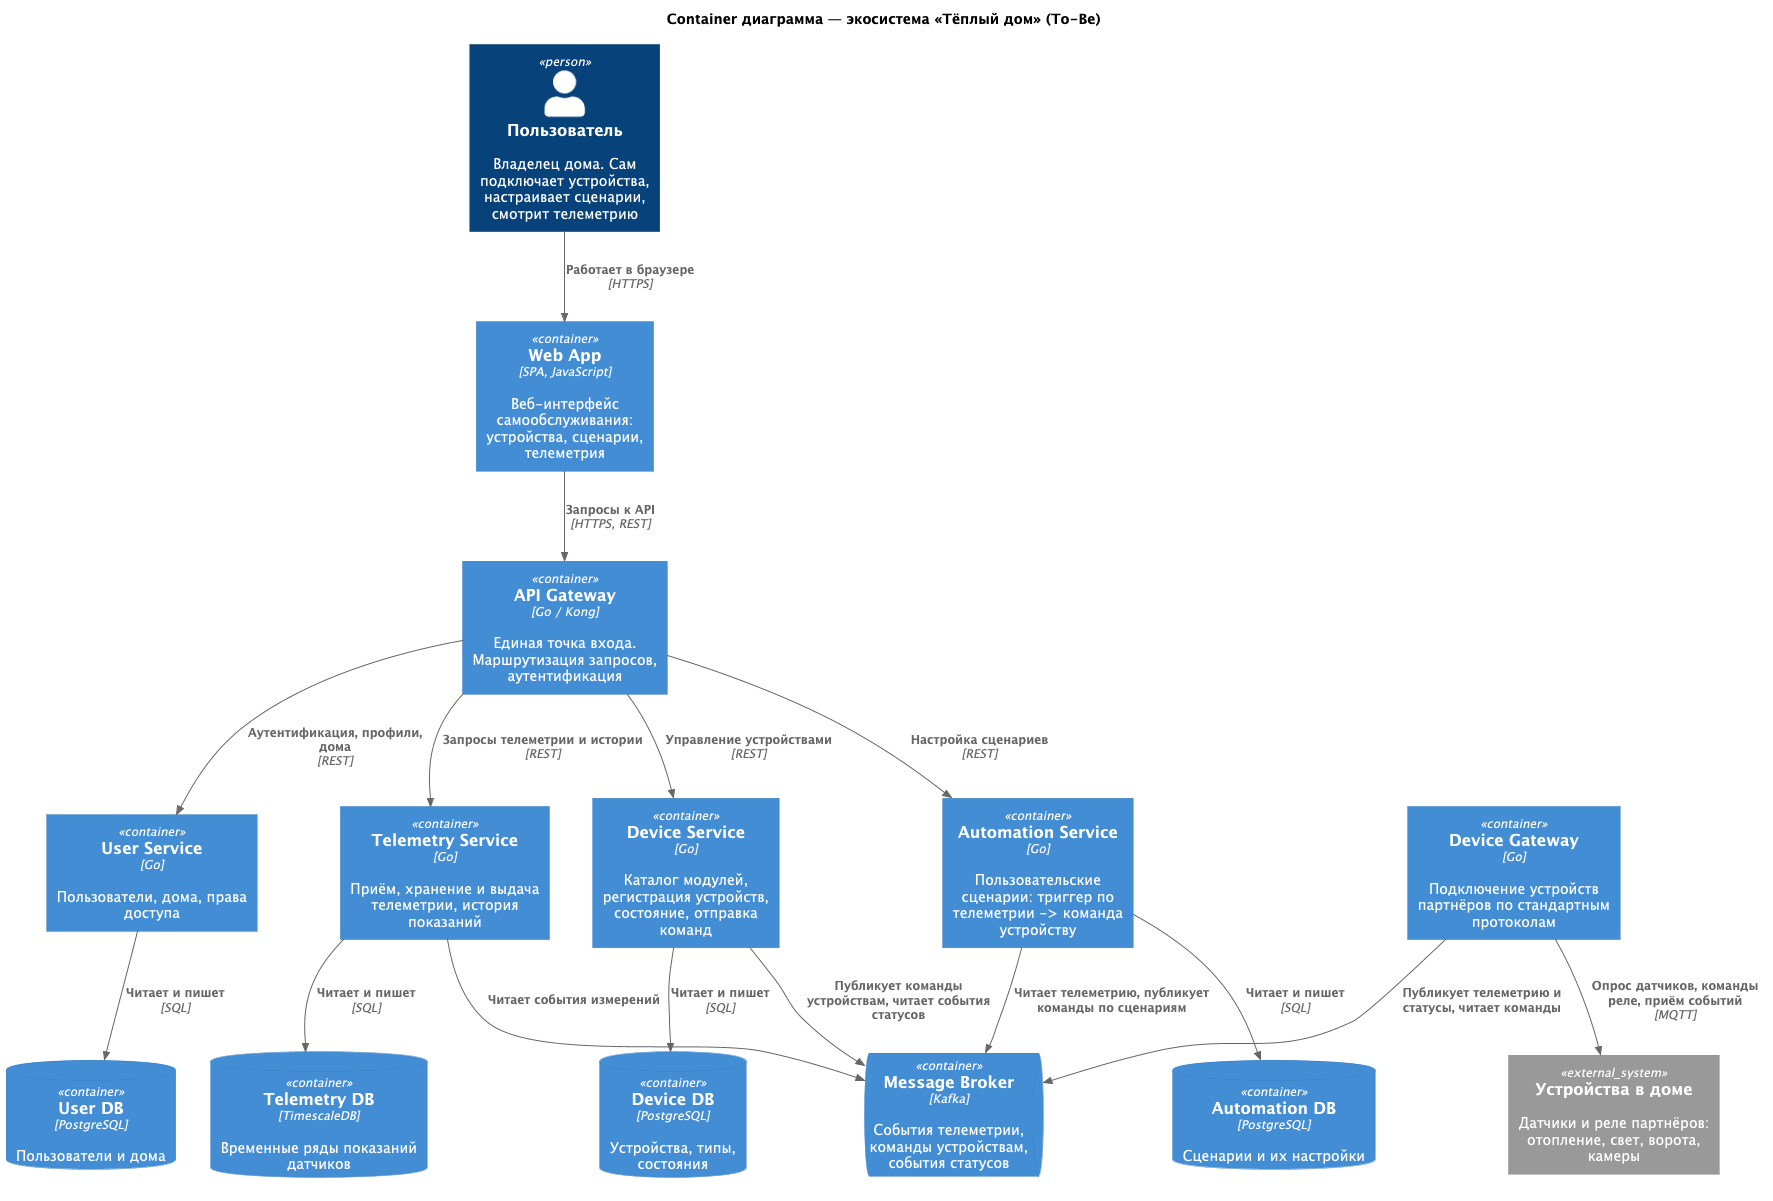
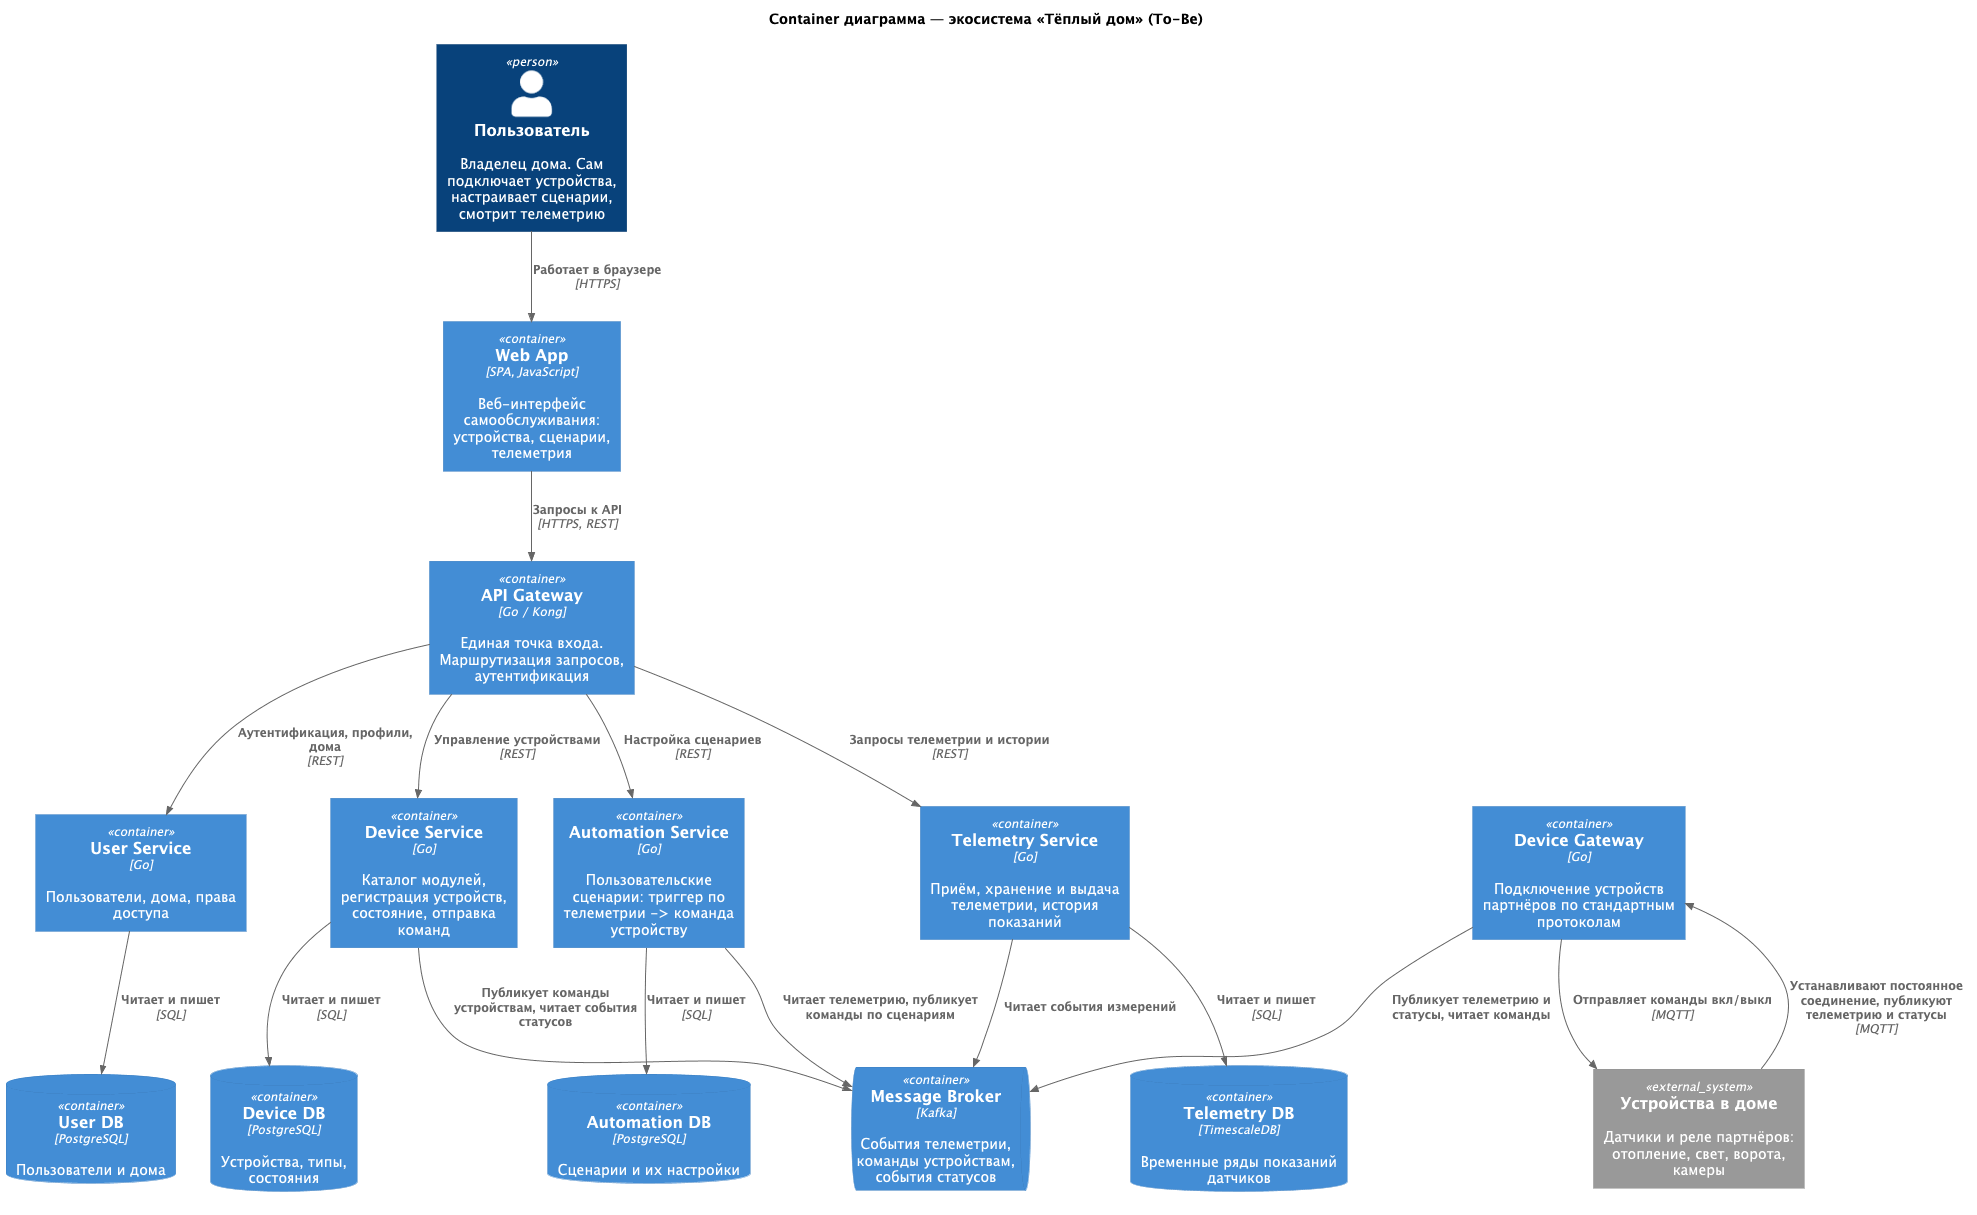
Задание 3, ER-диаграмма.

Changed region(s): [[0.0, 0.0308, 0.9927, 0.9858], [0.3723, 0.0, 0.6204, 0.0308]]

diff --git a/README.md b/README.md
@@ -89,7 +89,21 @@
 
 # Задание 3. Разработка ER-диаграммы
 
-Добавьте сюда ER-диаграмму. Она должна отражать ключевые сущности системы, их атрибуты и тип связей между ними.
+Сущности собрал по микросервисам из задания 2:
+
+- **users** — пользователи (User Service)
+- **houses** — дома, привязаны к пользователю (User Service)
+- **modules** — комплекты/модули умного дома, которые пользователь покупает и ставит в дом (Device Service)
+- **device_types** — справочник типов устройств: heating, light, gate, camera, sensor (Device Service)
+- **devices** — конкретные устройства с серийным номером и текущим состоянием (Device Service)
+- **telemetry_data** — показания датчиков, временной ряд (Telemetry Service)
+- **scenarios** — пользовательские сценарии, триггеры и действия лежат в jsonb (Automation Service)
+- **commands** — команды устройствам с отслеживанием статуса доставки (Device Service)
+
+Связи: пользователь владеет несколькими домами (1:N), дом состоит из модулей (1:N), модуль включает устройства (1:N), тип устройства задаётся справочником (1:N), устройство генерирует телеметрию (1:N) и выполняет команды (1:N), к дому привязаны сценарии (1:N).
+
+[PlantUML-исходник](diagrams/er/warmhouse-er.puml)
+![ER-диаграмма](diagrams/er/warmhouse-er.png)
 
 # Задание 4. Создание и документирование API
 
